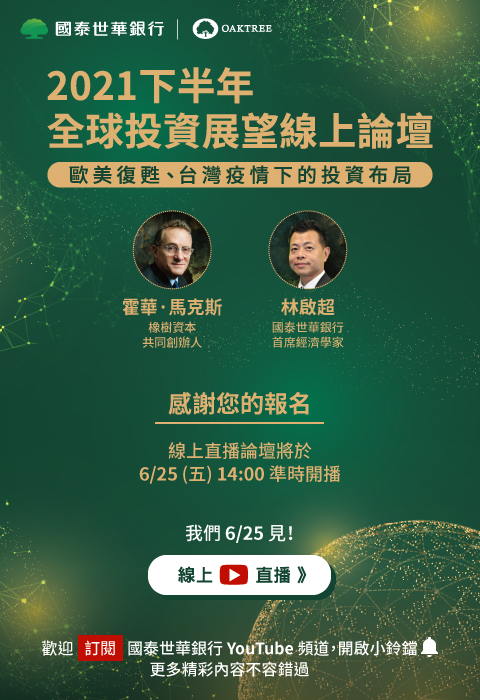
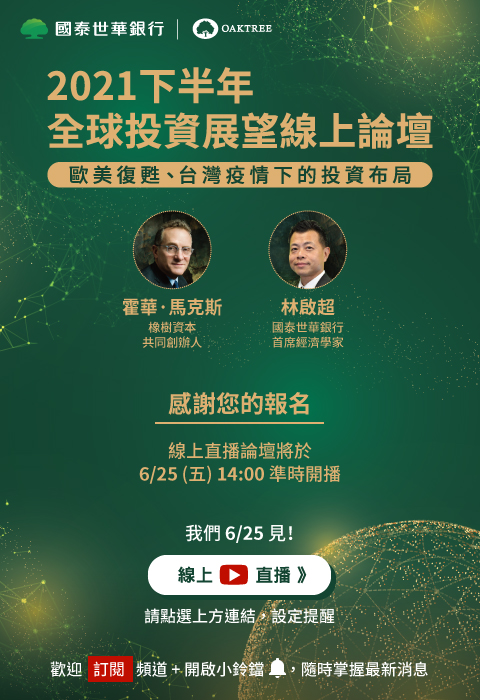
update

Changed region(s): [[0.0938, 0.87, 0.9062, 0.99]]

diff --git a/Cathay-forum-The second half of 2021 reminder/index.html b/Cathay-forum-The second half of 2021 reminder/index.html
@@ -368,8 +368,8 @@ font-family:'Microsoft JhengHei',Arial,'微軟正黑體', sans-serif;
 </center>
 
 <map name="Map">
-  <area shape="rect" coords="35,633,442,680" href="https://www.youtube.com/user/cathayunitedbank" target="_blank" alt="國泰世華銀行YouTube頻道">
-  <area shape="rect" coords="118,505,360,613" href="https://youtu.be/IkBJPYQ97CY" target="_blank" alt="2021下半年 全球投資展望線上論壇 線上直播">
+  <area shape="rect" coords="36,650,445,689" href="https://www.youtube.com/user/cathayunitedbank" target="_blank" alt="國泰世華銀行YouTube頻道">
+  <area shape="rect" coords="118,514,364,628" href="https://youtu.be/IkBJPYQ97CY" target="_blank" alt="2021下半年 全球投資展望線上論壇 線上直播">
 </map>
 </body>
 
